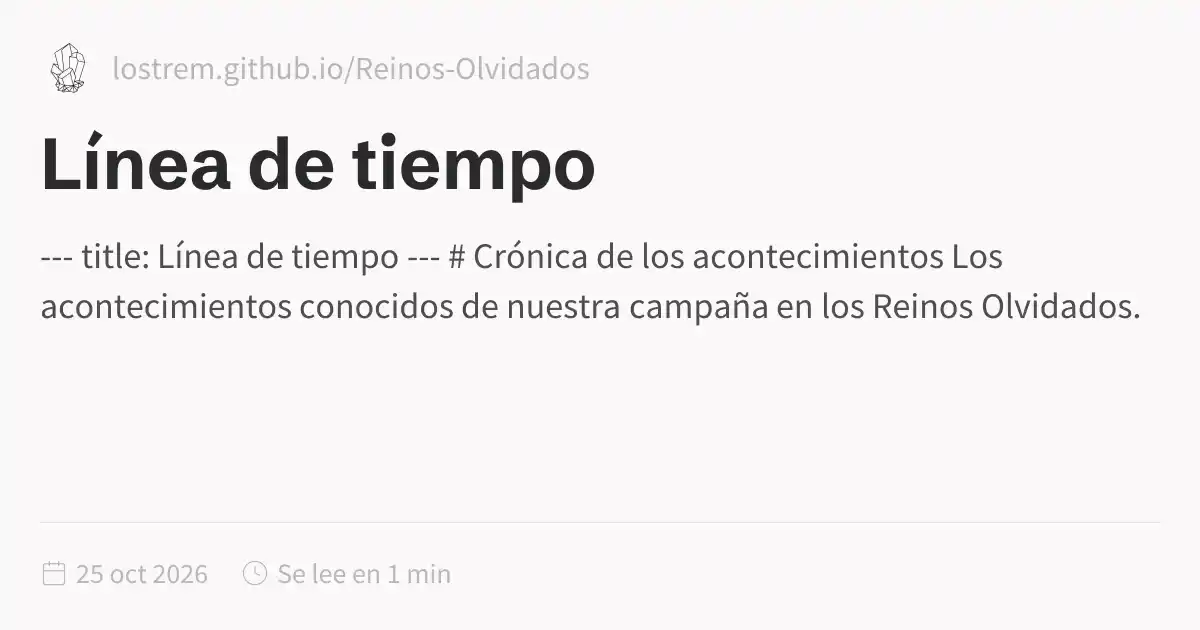
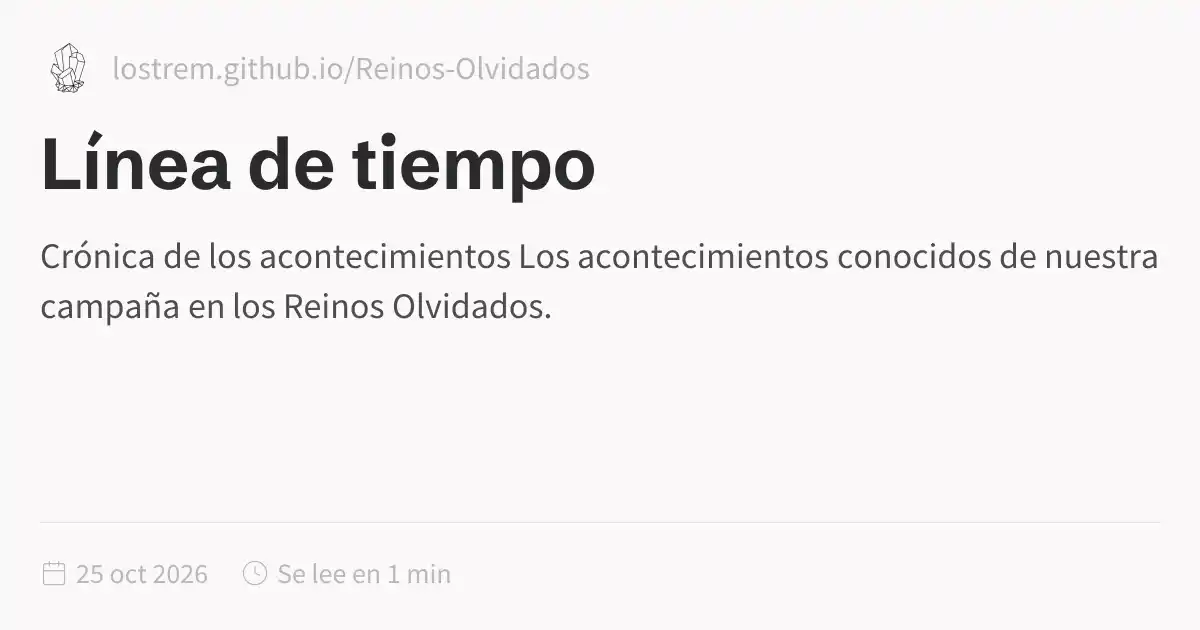
cambios

Changed region(s): [[0.0308, 0.3921, 0.9867, 0.5127]]

diff --git a/docs/Faerun/Línea-de-tiempo.html b/docs/Faerun/Línea-de-tiempo.html
@@ -1,5 +1,5 @@
 <!DOCTYPE html>
-<html lang="es" dir="ltr"><head><title>Línea de tiempo</title><meta charset="utf-8"/><link rel="preconnect" href="https://fonts.googleapis.com"/><link rel="preconnect" href="https://fonts.gstatic.com"/><link rel="stylesheet" href="https://fonts.googleapis.com/css2?family=Schibsted Grotesk:wght@400;700&amp;family=Source Sans Pro:ital,wght@0,400;0,600;1,400;1,600&amp;family=IBM Plex Mono:wght@400;600&amp;display=swap"/><link rel="preconnect" href="https://cdnjs.cloudflare.com" crossorigin="anonymous"/><meta name="viewport" content="width=device-width, initial-scale=1.0"/><meta name="og:site_name" content="Reinos Olvidados"/><meta property="og:title" content="Línea de tiempo"/><meta property="og:type" content="website"/><meta name="twitter:card" content="summary_large_image"/><meta name="twitter:title" content="Línea de tiempo"/><meta name="twitter:description" content="--- title: Línea de tiempo --- # Crónica de los acontecimientos Los acontecimientos conocidos de nuestra campaña en los Reinos Olvidados."/><meta property="og:description" content="--- title: Línea de tiempo --- # Crónica de los acontecimientos Los acontecimientos conocidos de nuestra campaña en los Reinos Olvidados."/><meta property="og:image:alt" content="--- title: Línea de tiempo --- # Crónica de los acontecimientos Los acontecimientos conocidos de nuestra campaña en los Reinos Olvidados."/><meta property="twitter:domain" content="lostrem.github.io/Reinos-Olvidados"/><meta property="og:url" content="https://lostrem.github.io/Reinos-Olvidados/Faerun/Línea-de-tiempo"/><meta property="twitter:url" content="https://lostrem.github.io/Reinos-Olvidados/Faerun/Línea-de-tiempo"/><link rel="icon" href="../static/icon.png"/><meta name="description" content="--- title: Línea de tiempo --- # Crónica de los acontecimientos Los acontecimientos conocidos de nuestra campaña en los Reinos Olvidados."/><meta name="generator" content="Quartz"/><link href="../index.css" rel="stylesheet" type="text/css" data-persist="true"/><style>.expand-button {
+<html lang="es" dir="ltr"><head><title>Línea de tiempo</title><meta charset="utf-8"/><link rel="preconnect" href="https://fonts.googleapis.com"/><link rel="preconnect" href="https://fonts.gstatic.com"/><link rel="stylesheet" href="https://fonts.googleapis.com/css2?family=Schibsted Grotesk:wght@400;700&amp;family=Source Sans Pro:ital,wght@0,400;0,600;1,400;1,600&amp;family=IBM Plex Mono:wght@400;600&amp;display=swap"/><link rel="preconnect" href="https://cdnjs.cloudflare.com" crossorigin="anonymous"/><meta name="viewport" content="width=device-width, initial-scale=1.0"/><meta name="og:site_name" content="Reinos Olvidados"/><meta property="og:title" content="Línea de tiempo"/><meta property="og:type" content="website"/><meta name="twitter:card" content="summary_large_image"/><meta name="twitter:title" content="Línea de tiempo"/><meta name="twitter:description" content="Crónica de los acontecimientos Los acontecimientos conocidos de nuestra campaña en los Reinos Olvidados."/><meta property="og:description" content="Crónica de los acontecimientos Los acontecimientos conocidos de nuestra campaña en los Reinos Olvidados."/><meta property="og:image:alt" content="Crónica de los acontecimientos Los acontecimientos conocidos de nuestra campaña en los Reinos Olvidados."/><meta property="twitter:domain" content="lostrem.github.io/Reinos-Olvidados"/><meta property="og:url" content="https://lostrem.github.io/Reinos-Olvidados/Faerun/Línea-de-tiempo"/><meta property="twitter:url" content="https://lostrem.github.io/Reinos-Olvidados/Faerun/Línea-de-tiempo"/><link rel="icon" href="../static/icon.png"/><meta name="description" content="Crónica de los acontecimientos Los acontecimientos conocidos de nuestra campaña en los Reinos Olvidados."/><meta name="generator" content="Quartz"/><link href="../index.css" rel="stylesheet" type="text/css" data-persist="true"/><style>.expand-button {
   position: absolute;
   display: flex;
   float: right;
@@ -115,33 +115,11 @@ pre:hover > .expand-button {
   padding: 0 12px;
   font-size: 14px;
 }
[1 lines of base64/hex data omitted]
-title: Línea de tiempo
----
-
-# Crónica de los acontecimientos
-
-Los acontecimientos conocidos de nuestra campaña en los Reinos Olvidados.
-
-&lt;div class=&quot;timeline&quot;>
-
-&lt;div class=&quot;timeline-event&quot;>
-  &lt;div class=&quot;timeline-date&quot;>7 de Flamerule de 1492 CV&lt;/div>
-  &lt;h2>El abandono de las tierras&lt;/h2>
-  &lt;p>&lt;strong>Lugar:&lt;/strong> Aldea al este de Roaringshore, cerca del Winding Water, en los Campos de los Muertos.&lt;/p>
-  &lt;p>Tras varias cosechas perdidas, el señor local decide retirar su protección para concentrar sus fuerzas en territorios más productivos. El encargado reúne a los pocos habitantes que permanecen en la aldea y les comunica la decisión.&lt;/p>
-  &lt;span class=&quot;timeline-tag&quot;>Acontecimiento de campaña&lt;/span>
-&lt;/div>
-
-&lt;div class=&quot;timeline-event&quot;>
-  &lt;div class=&quot;timeline-date&quot;>Fecha por determinar&lt;/div>
-  &lt;h2>Un futuro incierto&lt;/h2>
-  &lt;p>La aldea queda expuesta a los peligros de los caminos y las tierras salvajes. Sus habitantes deberán decidir cómo sobrevivir sin la protección de su señor.&lt;/p>
-  &lt;span class=&quot;timeline-tag&quot;>Consecuencia&lt;/span>
-&lt;/div>
-
-&lt;/div>
-</code></pre></article><hr/><div class="page-footer"></div></div><div class="right sidebar"><div class="graph"><h3>Vista Gráfica</h3><div class="graph-outer"><div class="graph-container" data-cfg="{&quot;drag&quot;:true,&quot;zoom&quot;:true,&quot;depth&quot;:1,&quot;scale&quot;:1.1,&quot;repelForce&quot;:0.5,&quot;centerForce&quot;:0.3,&quot;linkDistance&quot;:30,&quot;fontSize&quot;:0.6,&quot;opacityScale&quot;:1,&quot;showTags&quot;:true,&quot;removeTags&quot;:[],&quot;focusOnHover&quot;:false,&quot;enableRadial&quot;:false}"></div><button class="global-graph-icon" aria-label="Global Graph"><svg version="1.1" xmlns="http://www.w3.org/2000/svg" xmlns:xlink="http://www.w3.org/1999/xlink" x="0px" y="0px" viewBox="0 0 55 55" fill="currentColor" xml:space="preserve"><path d="M49,0c-3.309,0-6,2.691-6,6c0,1.035,0.263,2.009,0.726,2.86l-9.829,9.829C32.542,17.634,30.846,17,29,17
[1 lines of base64/hex data omitted]
+<p>Los acontecimientos conocidos de nuestra campaña en los Reinos Olvidados.</p>
+<figure data-rehype-pretty-code-figure><pre tabindex="0" data-language="chronos" data-theme="github-light github-dark"><code data-language="chronos" data-theme="github-light github-dark" style="display:grid;"><span data-line><span>- [1492-07-07] El abandono de las tierras: Tras varias cosechas perdidas, el señor local retira su protección. El encargado comunica la decisión a los pocos habitantes que permanecen en la aldea.</span></span>
+<span data-line> </span>
+<span data-line><span>- [1492-07-08] Un futuro incierto: La aldea queda expuesta a los peligros de los caminos y las tierras salvajes. Sus habitantes deberán decidir cómo sobrevivir sin la protección de su señor.</span></span></code></pre></figure></article><hr/><div class="page-footer"></div></div><div class="right sidebar"><div class="graph"><h3>Vista Gráfica</h3><div class="graph-outer"><div class="graph-container" data-cfg="{&quot;drag&quot;:true,&quot;zoom&quot;:true,&quot;depth&quot;:1,&quot;scale&quot;:1.1,&quot;repelForce&quot;:0.5,&quot;centerForce&quot;:0.3,&quot;linkDistance&quot;:30,&quot;fontSize&quot;:0.6,&quot;opacityScale&quot;:1,&quot;showTags&quot;:true,&quot;removeTags&quot;:[],&quot;focusOnHover&quot;:false,&quot;enableRadial&quot;:false}"></div><button class="global-graph-icon" aria-label="Global Graph"><svg version="1.1" xmlns="http://www.w3.org/2000/svg" xmlns:xlink="http://www.w3.org/1999/xlink" x="0px" y="0px" viewBox="0 0 55 55" fill="currentColor" xml:space="preserve"><path d="M49,0c-3.309,0-6,2.691-6,6c0,1.035,0.263,2.009,0.726,2.86l-9.829,9.829C32.542,17.634,30.846,17,29,17
                 s-3.542,0.634-4.898,1.688l-7.669-7.669C16.785,10.424,17,9.74,17,9c0-2.206-1.794-4-4-4S9,6.794,9,9s1.794,4,4,4
                 c0.74,0,1.424-0.215,2.019-0.567l7.669,7.669C21.634,21.458,21,23.154,21,25s0.634,3.542,1.688,4.897L10.024,42.562
                 C8.958,41.595,7.549,41,6,41c-3.309,0-6,2.691-6,6s2.691,6,6,6s6-2.691,6-6c0-1.035-0.263-2.009-0.726-2.86l12.829-12.829

diff --git a/docs/Faerun/index.html b/docs/Faerun/index.html
@@ -115,6 +115,6 @@ pre:hover > .expand-button {
   padding: 0 12px;
   font-size: 14px;
 }
[2 lines of base64/hex data omitted]
 </script><script type="module" data-persist="true">function E(a,e){if(!a)return;function t(o){o.target===this&&(o.preventDefault(),o.stopPropagation(),e())}function n(o){o.key.startsWith("Esc")&&(o.preventDefault(),e())}a?.addEventListener("click",t),window.addCleanup(()=>a?.removeEventListener("click",t)),document.addEventListener("keydown",n),window.addCleanup(()=>document.removeEventListener("keydown",n))}function f(a){for(;a.firstChild;)a.removeChild(a.firstChild)}var m=class{constructor(e,t){this.container=e;this.content=t;this.setupEventListeners(),this.setupNavigationControls(),this.resetTransform()}isDragging=!1;startPan={x:0,y:0};currentPan={x:0,y:0};scale=1;MIN_SCALE=.5;MAX_SCALE=3;cleanups=[];setupEventListeners(){let e=this.onMouseDown.bind(this),t=this.onMouseMove.bind(this),n=this.onMouseUp.bind(this),o=this.onTouchStart.bind(this),r=this.onTouchMove.bind(this),i=this.onTouchEnd.bind(this),s=this.resetTransform.bind(this);this.container.addEventListener("mousedown",e),document.addEventListener("mousemove",t),document.addEventListener("mouseup",n),this.container.addEventListener("touchstart",o,{passive:!1}),document.addEventListener("touchmove",r,{passive:!1}),document.addEventListener("touchend",i),window.addEventListener("resize",s),this.cleanups.push(()=>this.container.removeEventListener("mousedown",e),()=>document.removeEventListener("mousemove",t),()=>document.removeEventListener("mouseup",n),()=>this.container.removeEventListener("touchstart",o),()=>document.removeEventListener("touchmove",r),()=>document.removeEventListener("touchend",i),()=>window.removeEventListener("resize",s))}cleanup(){for(let e of this.cleanups)e()}setupNavigationControls(){let e=document.createElement("div");e.className="mermaid-controls";let t=this.createButton("+",()=>this.zoom(.1)),n=this.createButton("-",()=>this.zoom(-.1)),o=this.createButton("Reset",()=>this.resetTransform());e.appendChild(n),e.appendChild(o),e.appendChild(t),this.container.appendChild(e)}createButton(e,t){let n=document.createElement("button");return n.textContent=e,n.className="mermaid-control-button",n.addEventListener("click",t),window.addCleanup(()=>n.removeEventListener("click",t)),n}onMouseDown(e){e.button===0&&(this.isDragging=!0,this.startPan={x:e.clientX-this.currentPan.x,y:e.clientY-this.currentPan.y},this.container.style.cursor="grabbing")}onMouseMove(e){this.isDragging&&(e.preventDefault(),this.currentPan={x:e.clientX-this.startPan.x,y:e.clientY-this.startPan.y},this.updateTransform())}onMouseUp(){this.isDragging=!1,this.container.style.cursor="grab"}onTouchStart(e){if(e.touches.length!==1)return;this.isDragging=!0;let t=e.touches[0];this.startPan={x:t.clientX-this.currentPan.x,y:t.clientY-this.currentPan.y}}onTouchMove(e){if(!this.isDragging||e.touches.length!==1)return;e.preventDefault();let t=e.touches[0];this.currentPan={x:t.clientX-this.startPan.x,y:t.clientY-this.startPan.y},this.updateTransform()}onTouchEnd(){this.isDragging=!1}zoom(e){let t=Math.min(Math.max(this.scale+e,this.MIN_SCALE),this.MAX_SCALE),n=this.content.getBoundingClientRect(),o=n.width/2,r=n.height/2,i=t-this.scale;this.currentPan.x-=o*i,this.currentPan.y-=r*i,this.scale=t,this.updateTransform()}updateTransform(){this.content.style.transform=`translate(${this.currentPan.x}px, ${this.currentPan.y}px) scale(${this.scale})`}resetTransform(){let t=this.content.querySelector("svg").getBoundingClientRect(),n=t.width/this.scale,o=t.height/this.scale;this.scale=1,this.currentPan={x:(this.container.clientWidth-n)/2,y:(this.container.clientHeight-o)/2},this.updateTransform()}},T=["--secondary","--tertiary","--gray","--light","--lightgray","--highlight","--dark","--darkgray","--codeFont"],y;document.addEventListener("nav",async()=>{let e=document.querySelector(".center").querySelectorAll("code.mermaid");if(e.length===0)return;y||=await import("https://cdnjs.cloudflare.com/ajax/libs/mermaid/11.4.0/mermaid.esm.min.mjs");let t=y.default,n=new WeakMap;for(let r of e)n.set(r,r.innerText);async function o(){for(let s of e){s.removeAttribute("data-processed");let c=n.get(s);c&&(s.innerHTML=c)}let r=T.reduce((s,c)=>(s[c]=window.getComputedStyle(document.documentElement).getPropertyValue(c),s),{}),i=document.documentElement.getAttribute("saved-theme")==="dark";t.initialize({startOnLoad:!1,securityLevel:"loose",theme:i?"dark":"base",themeVariables:{fontFamily:r["--codeFont"],primaryColor:r["--light"],primaryTextColor:r["--darkgray"],primaryBorderColor:r["--tertiary"],lineColor:r["--darkgray"],secondaryColor:r["--secondary"],tertiaryColor:r["--tertiary"],clusterBkg:r["--light"],edgeLabelBackground:r["--highlight"]}}),await t.run({nodes:e})}await o(),document.addEventListener("themechange",o),window.addCleanup(()=>document.removeEventListener("themechange",o));for(let r=0;r<e.length;r++){let v=function(){let g=l.querySelector("#mermaid-space"),h=l.querySelector(".mermaid-content");if(!h)return;f(h);let w=i.querySelector("svg").cloneNode(!0);h.appendChild(w),l.classList.add("active"),g.style.cursor="grab",u=new m(g,h)},M=function(){l.classList.remove("active"),u?.cleanup(),u=null},i=e[r],s=i.parentElement,c=s.querySelector(".clipboard-button"),d=s.querySelector(".expand-button"),p=window.getComputedStyle(c),L=c.offsetWidth+parseFloat(p.marginLeft||"0")+parseFloat(p.marginRight||"0");d.style.right=`calc(${L}px + 0.3rem)`,s.prepend(d);let l=s.querySelector("#mermaid-container");if(!l)return;let u=null;d.addEventListener("click",v),E(l,M),window.addCleanup(()=>{u?.cleanup(),d.removeEventListener("click",v)})}});
 </script><script src="https://cdn.jsdelivr.net/npm/katex@0.16.11/dist/contrib/copy-tex.min.js" type="application/javascript" data-persist="true"></script><script src="../postscript.js" type="module" data-persist="true"></script></html>

diff --git a/content/Faerun/Línea de tiempo.md b/content/Faerun/Línea de tiempo.md
@@ -1,24 +1,10 @@
 
----
 # Crónica de los acontecimientos
 
 Los acontecimientos conocidos de nuestra campaña en los Reinos Olvidados.
 
-<div class="timeline">
+```chronos
+- [1492-07-07] El abandono de las tierras: Tras varias cosechas perdidas, el señor local retira su protección. El encargado comunica la decisión a los pocos habitantes que permanecen en la aldea.
 
-<div class="timeline-event">
-
-<div class="timeline-date">7 de Flamerule de 1492 CV</div>
-
-<h2>El abandono de las tierras</h2>
-
-<p><strong>Lugar:</strong> Aldea al este de Roaringshore, cerca del Winding Water, en los Campos de los Muertos.</p>
-
-<p>Tras varias cosechas perdidas, el señor local decide retirar su protección para concentrar sus fuerzas en territorios más productivos. El encargado reúne a los pocos habitantes que permanecen en la aldea y les comunica la decisión.</p>
-
-<span class="timeline-tag">Acontecimiento de campaña</span>
-
-</div>
-
-</div>
-
+- [1492-07-08] Un futuro incierto: La aldea queda expuesta a los peligros de los caminos y las tierras salvajes. Sus habitantes deberán decidir cómo sobrevivir sin la protección de su señor.
+```
